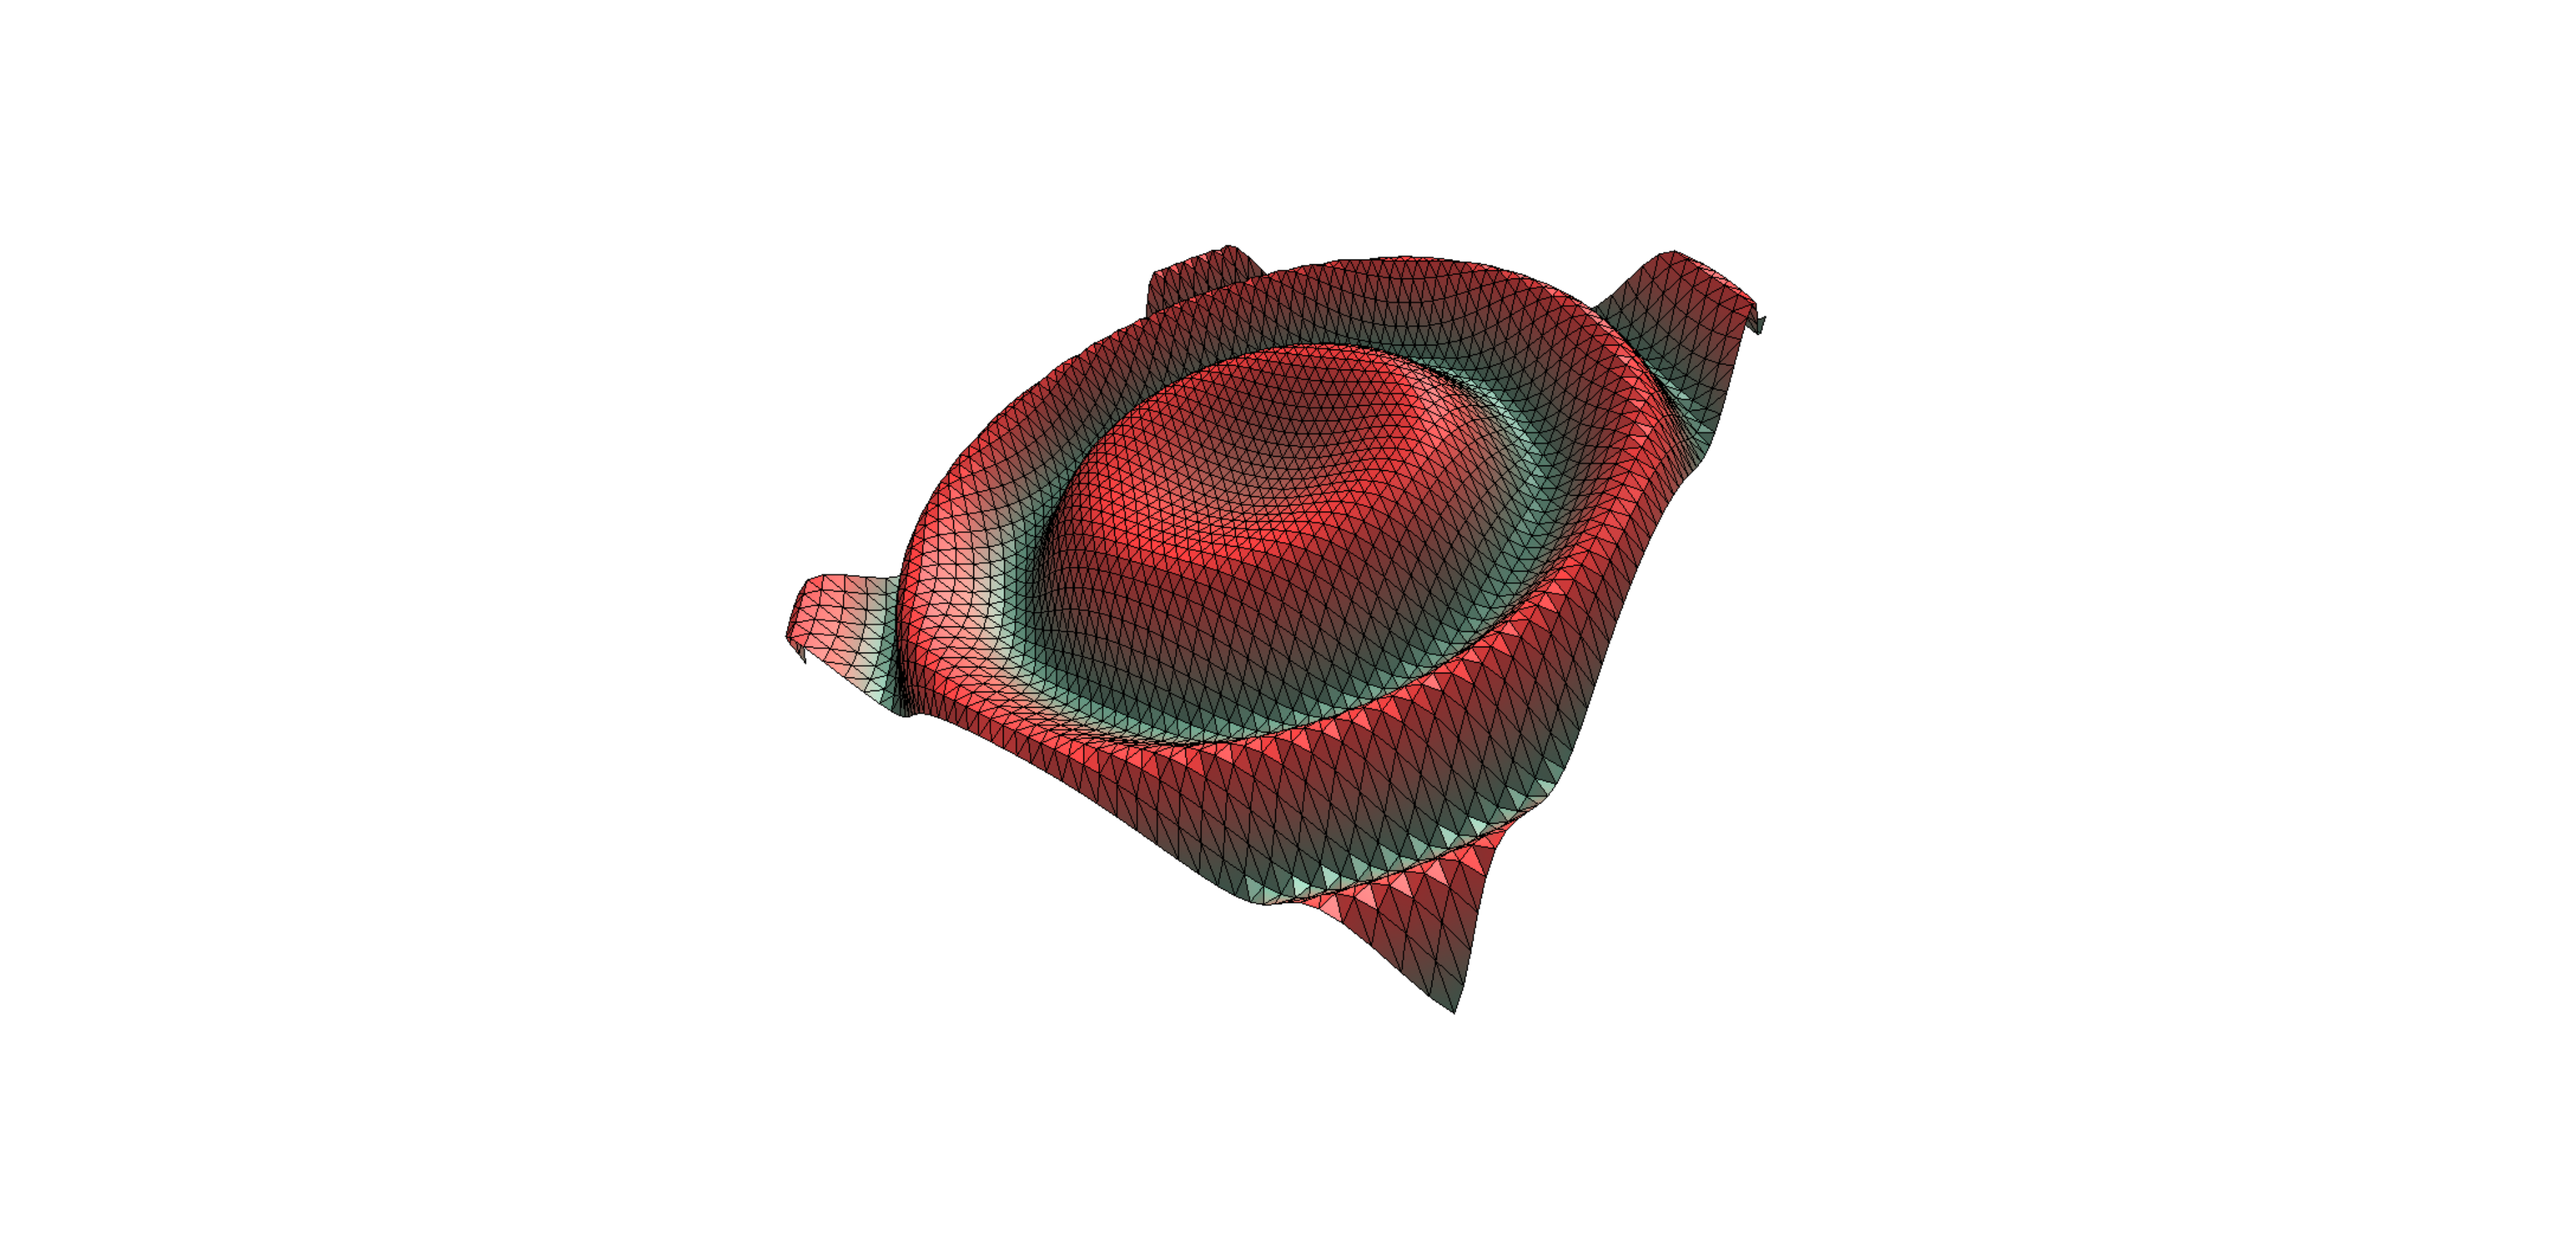
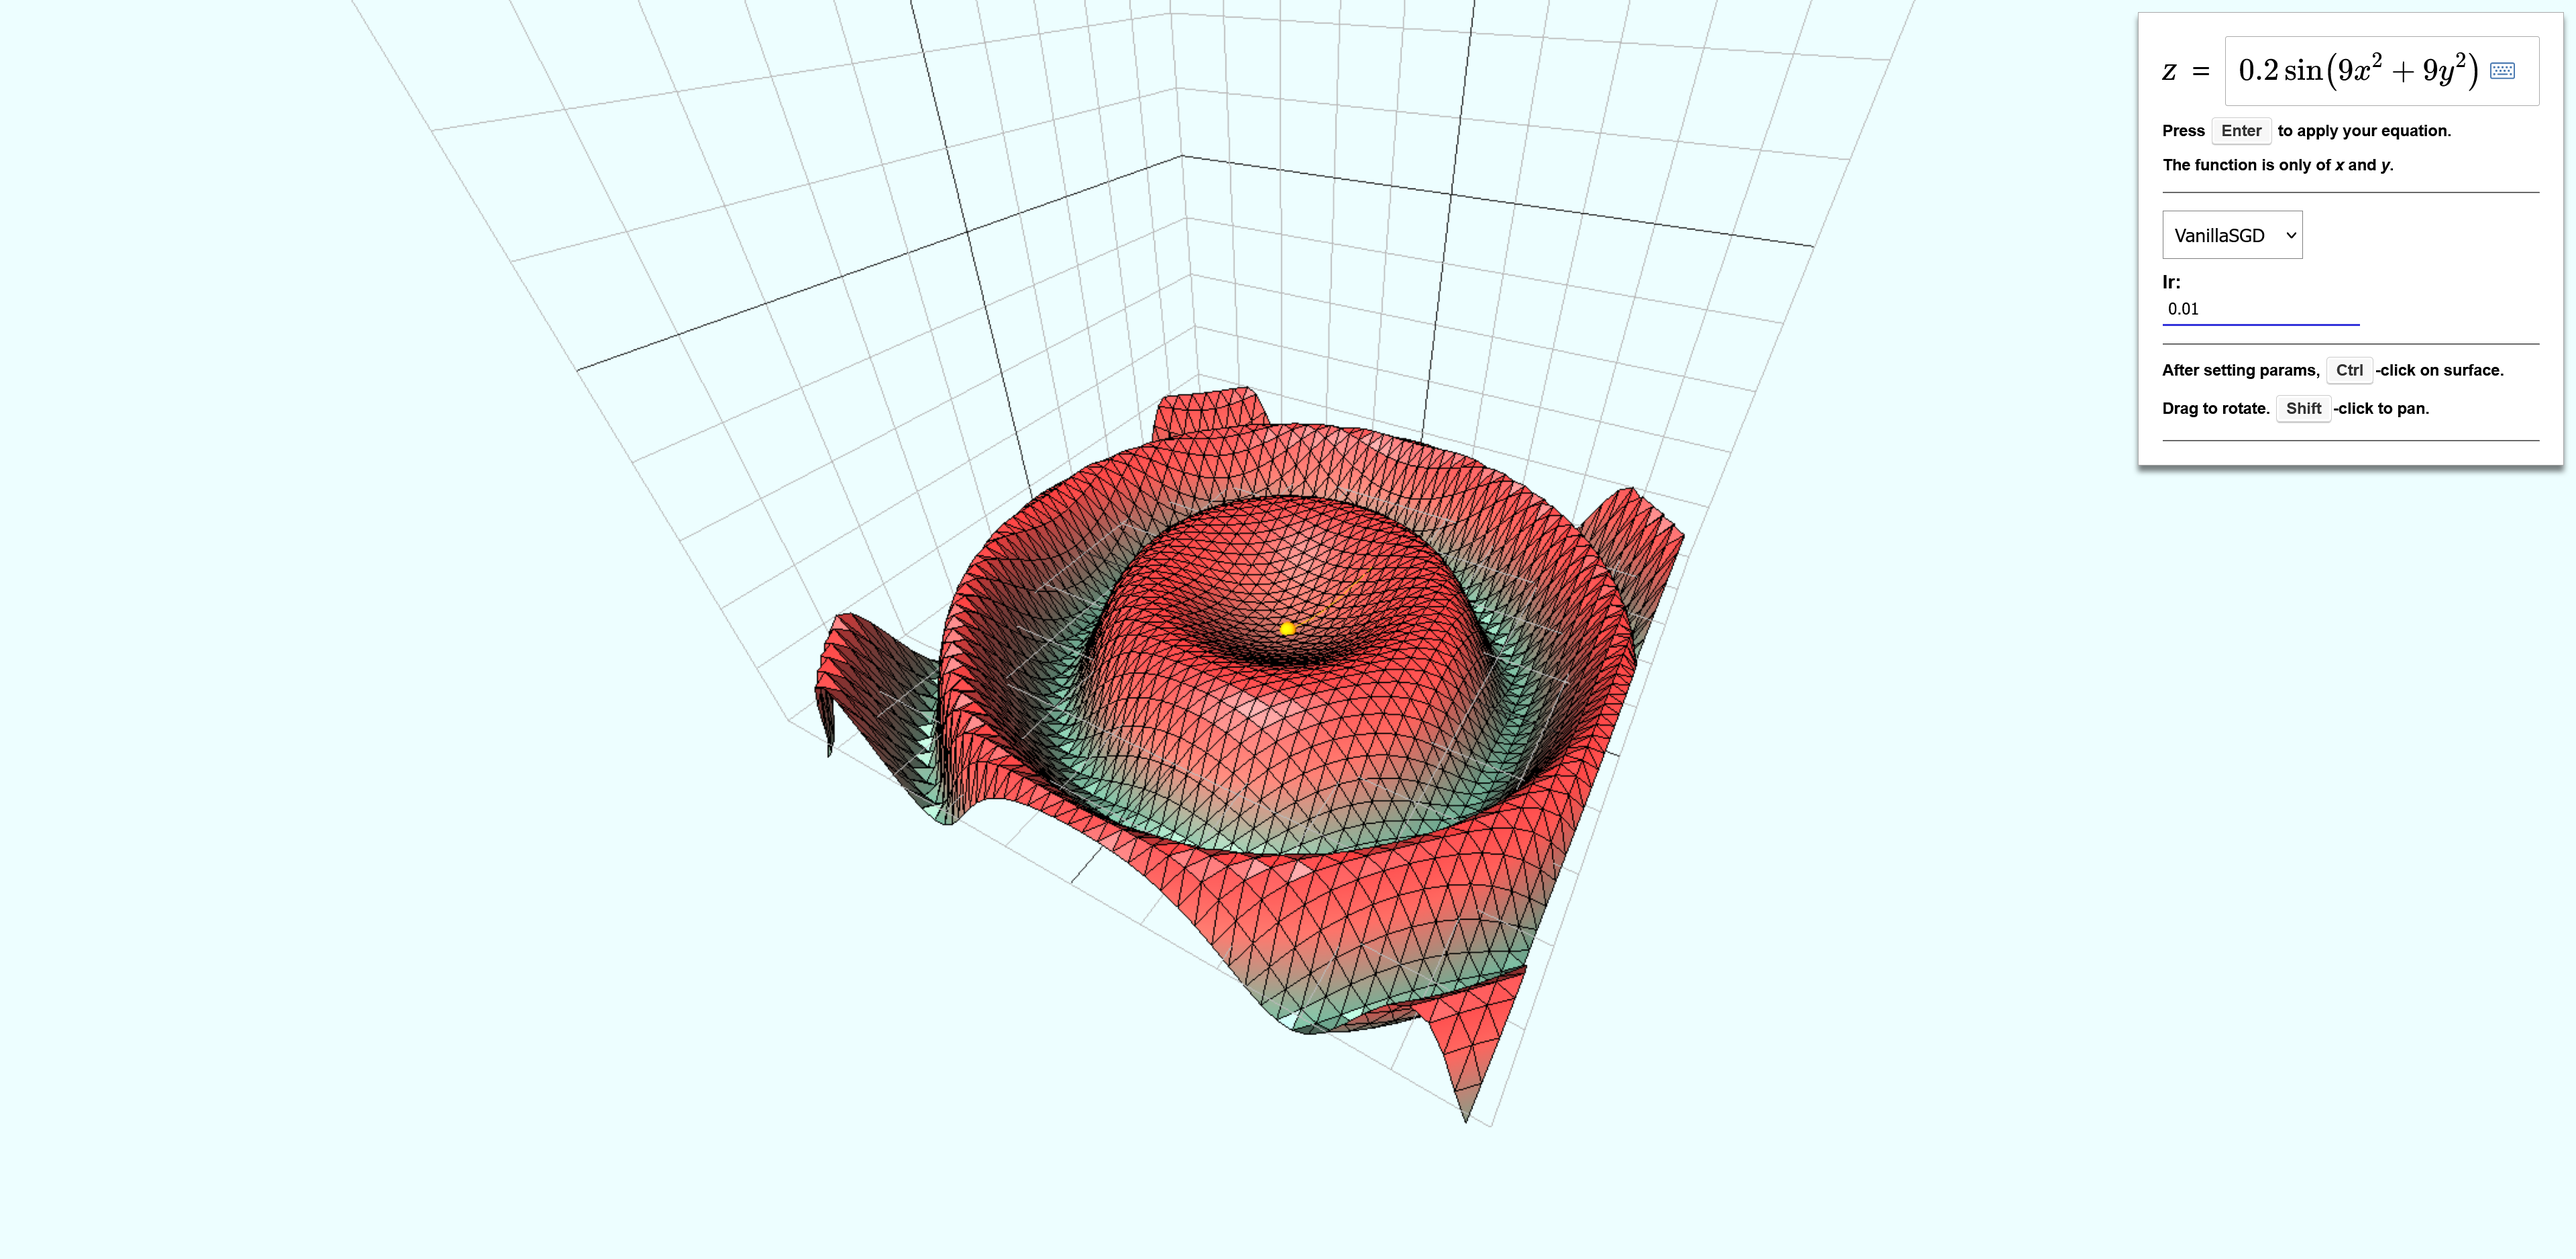
minor ui updates

diff --git a/gradbowl.html b/gradbowl.html
@@ -71,7 +71,7 @@
                     let fields = [...document.querySelectorAll('#params input')];
 
                     err = fields.some(field => {
-                        return field.value.trim().length === 0 || !/\d+\.?(e-?)?\d*/.test(field.value.trim());
+                        return field.value.trim().length === 0 || !/^\d+\.?(e-?)?\d*$/.test(field.value.trim());
                     });
 
                     if (err) {
@@ -507,7 +507,7 @@
     </head>
     <body>
         <div id="controls">
-            <span id="eqn-prefix">z=</span><math-field id="eqn">0.1\sin(9x^2+9y^2)</math-field>
+            <span id="eqn-prefix">z=</span><math-field id="eqn">0.2\sin(9x^2+9y^2)</math-field>
             <div class="help">Press <kbd>Enter</kbd> to apply your equation.</div>
             <div class="help">The function is only of <i>x</i> and <i>y</i>.</div>
             <hr />

diff --git a/gradopts.js b/gradopts.js
@@ -8,7 +8,7 @@ class LandscapeOptimizer {
 class VanillaSGD extends LandscapeOptimizer {
     constructor() {
         super();
-        this.params.lr = 1e-3;
+        this.params.lr = 1e-2;
     }
 
     apply(pos, grad) {
@@ -20,7 +20,7 @@ class VanillaSGD extends LandscapeOptimizer {
 class Momentum extends LandscapeOptimizer {
     constructor() {
         super();
-        this.params.lr = 1e-3;
+        this.params.lr = 1e-2;
         this.params.beta = 0.8;
         this.last_grad = null;
     }
